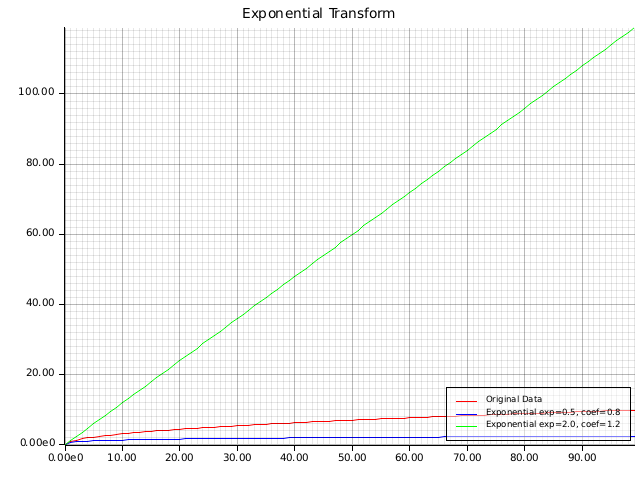
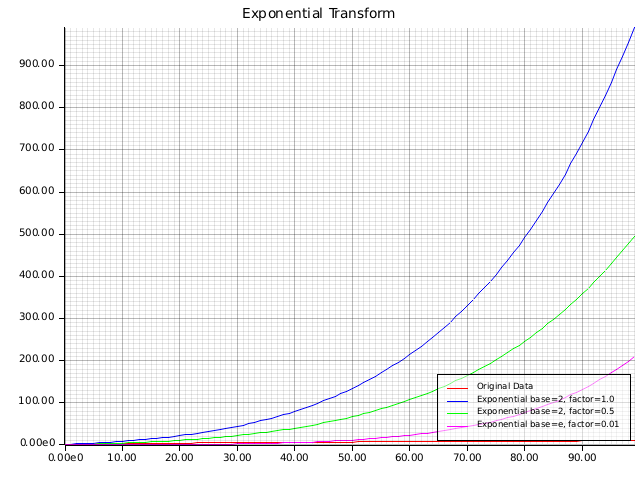
Fix documentation issues

Changed region(s): [[0.0312, 0.0625, 1.0, 0.9375]]

diff --git a/examples/scaling_transforms.rs b/examples/scaling_transforms.rs
@@ -5,7 +5,11 @@
 //!
 use polyfit::{
     error::Error,
-    function, plot,
+    function, plot, plot_filename,
+    plotting::{
+        plotters::{Plot, Root, Split},
+        PlotOptions, PlottingElement,
+    },
     transforms::{ApplyScale, ScaleTransform, Transform},
 };
 
@@ -16,22 +20,55 @@ fn main() -> Result<(), Error> {
     let data: Vec<(f64, f64)> = serde_json::from_str(data).unwrap();
 
     //
-    // Let's suppose these are sensor readings of temperature over time (celsius / seconds)
-    // And the sensor voltage follows a quadratic relation:
-    // V = 0.01T² + 0.5T
-    // We can use a polynomial fit to model this relationship
-    let voltage_data = data.apply_polynomial_scale(&function!(0.01 x^2 + 0.5 x));
+    // For example if we pretend this is temperature sensor data
+    // The sensor outputs temp in Fahrenheit but we want Celcius
+    // because we realized it's the superior unit of measurement
+    //
+    // We can use a polynomial to model this relationship (5/9)x - 32(5/9)
+    // or approximately 0.5556x - 17.7778
+    function!(celcius(f) = 0.5556 f - 17.7778);
+    let celcius_data = data.clone().apply_polynomial_scale(&celcius);
 
-    // Let's convert to megavolts (MV) to keep things numerically stable
-    // Because I've reused this data for a lot of examples and the voltage values are quite large
-    let mut voltage_data = voltage_data.apply_linear_scale(1e-6);
+    // Let's visualize the difference
+    let orig_data = PlottingElement::from_data(data.iter().copied(), Some("°F Data".to_string()));
+    let tx_data = PlottingElement::from_data(celcius_data.into_iter(), Some("°C Data".to_string()));
+    plot!([tx_data, orig_data]);
+
+    //
+    // Now instead let's say this is volts / seconds from some experiment
+    // Let's convert to kilovolts to keep things numerically stable
+    // Because I've reused this data for a lot of examples and the values are quite large
+    let mut voltage_data = data.clone().apply_linear_scale(1e-3);
 
     // Let's also convert time to minutes
     // The trait applies to y, so let's apply it manually
     let transformation = ScaleTransform::Linear(1.0 / 60.0);
     transformation.apply(voltage_data.iter_mut().map(|(x, _)| x));
 
-    plot!(voltage_data);
+    //
+    // Let's plot these side-by-side
+    // First we need to create a split root
+    let mut options = PlotOptions {
+        title: "Voltage over Time".to_string(),
+        size: (1280, 480),
+        ..Default::default()
+    };
+    let filename = plot_filename!(Some("voltage_time_comparison"));
+    let root = Root::new_split(&filename, options.size, Split::Horizontal(2));
+
+    //
+    // Plot the left side
+    options.x_label = Some("Time (min)".to_string());
+    options.y_label = Some("Voltage (kV)".to_string());
+    let plot = Plot::new(&root[0], options.clone(), &voltage_data).unwrap();
+    plot.finish().unwrap();
+
+    //
+    // And now the right side
+    options.x_label = Some("Time (s)".to_string());
+    options.y_label = Some("Voltage (V)".to_string());
+    let plot = Plot::new(&root[1], options, &data).unwrap();
+    plot.finish().unwrap();
 
     Ok(())
 }

diff --git a/src/transforms/scale.rs b/src/transforms/scale.rs
@@ -88,8 +88,7 @@ pub enum ScaleTransform<T: Value> {
 
     /// Applies an exponential scaling to each element of a dataset.
     ///
-    /// Each element is raised to the specified degree and then multiplied by the specified factor.
-    /// Useful for modeling exponential growth or decay.
+    /// Each element is transformed using exponentiation with the specified base
     ///
     /// ![Exponential example](https://raw.githubusercontent.com/caliangroup/polyfit/refs/heads/master/.github/assets/exponential_example.png)
     ///
@@ -98,12 +97,12 @@ pub enum ScaleTransform<T: Value> {
     /// **Technical Details**
     ///
     /// ```math
-    /// xₙ = factor * x^degree
+    /// xₙ = factor * base^x
     /// ```
     /// </div>
     ///
     /// # Parameters
-    /// - `degree`: The exponent to which each element is raised.
+    /// - `base`: The exponent to which each element is raised.
     /// - `factor`: The multiplier applied after exponentiation.
     Exponential(T, T),
 
@@ -143,9 +142,9 @@ impl<T: Value> Transform<T> for ScaleTransform<T> {
                     *value = *value * *value * *value * *coef;
                 }
             }
-            ScaleTransform::Exponential(degree, coef) => {
+            ScaleTransform::Exponential(base, coef) => {
                 for value in data {
-                    *value = value.powf(*degree) * *coef;
+                    *value = base.powf(*value) * *coef;
                 }
             }
             ScaleTransform::Logarithmic(base, coef) => {
@@ -274,8 +273,7 @@ pub trait ApplyScale<T: Value> {
 
     /// Applies an exponential scaling to each element of a dataset.
     ///
-    /// Each element is raised to the specified degree and then multiplied by the specified factor.
-    /// Useful for modeling exponential growth or decay.
+    /// Each element is transformed using exponentiation with the specified base
     ///
     /// ![Exponential example](https://raw.githubusercontent.com/caliangroup/polyfit/refs/heads/master/.github/assets/exponential_example.png)
     ///
@@ -284,12 +282,12 @@ pub trait ApplyScale<T: Value> {
     /// **Technical Details**
     ///
     /// ```math
-    /// xₙ = factor * x^degree
+    /// xₙ = factor * base^x
     /// ```
     /// </div>
     ///
     /// # Parameters
-    /// - `degree`: The exponent to which each element is raised.
+    /// - `base`: The base of the exponentiation.
     /// - `factor`: The multiplier applied after exponentiation.
     ///
     /// # Example
@@ -298,7 +296,7 @@ pub trait ApplyScale<T: Value> {
     /// let data = vec![(1.0, 2.0), (2.0, 3.0)].apply_exponential_scale(2.0, 3.0);
     /// ```
     #[must_use]
-    fn apply_exponential_scale(self, degree: T, factor: T) -> Self;
+    fn apply_exponential_scale(self, base: T, factor: T) -> Self;
 
     /// Applies a polynomial series as a transformation to each element of a dataset.
     ///

diff --git a/src/lib.rs b/src/lib.rs
@@ -139,7 +139,7 @@
 //! They also unlock a few analytical tools that are not available other bases:
 //! - [`CurveFit::smoothness`] - A measure of how "wiggly" the curve is; useful for regularization and model selection
 //! - [`CurveFit::coefficient_energies`] - A measure of how much each basis function contributes to the overall curve; useful for understanding the shape of the curve
-//! - [`Polynomial::spectral_energy_truncation`] - A way to de-noise the curve by removing high-frequency components the don't contribute enough; useful for smoothing noisy data
+//! - [`Polynomial::spectral_energy_filter`] - A way to de-noise the curve by removing high-frequency components the don't contribute enough; useful for smoothing noisy data
 //! - [`Polynomial::project_orthogonal`] - A way to project any function onto an orthogonal basis
 //!   - I like to use this to convert Fourier fits into Chebyshev fits for noisy periodic data (see `examples/whats_an_orthogonal.rs`)
 //!
@@ -176,7 +176,7 @@
 //! - If enabled, failed assertions in the testing library will automatically generate plots showing what went wrong
 //! - ![Example plot](https://raw.githubusercontent.com/caliangroup/polyfit/refs/heads/master/.github/assets/example_fail.png)
 //!
-//! See [`mod@plot`] for more details
+//! See [`mod@plotting`] for more details
 //!
 //! ### Transforms
 //! If the `transforms` feature is enabled, you can use the tools in the [`transforms`] module to manipulate your data.

diff --git a/src/transforms.rs b/src/transforms.rs
@@ -123,7 +123,6 @@ thread_local! {
 /// You can use a custom [`SeedSource`] to replay those seeds for debugging purposes, by using [`SeedSource::from_seeds`]
 #[derive(Debug)]
 pub struct SeedSource {
-    #[cfg(test)]
     replay: Vec<u64>,
 
     rng: rand::rngs::ThreadRng,
@@ -138,17 +137,17 @@ impl SeedSource {
     #[must_use]
     pub fn new() -> Self {
         Self {
-            #[cfg(test)]
             replay: Vec::new(),
-
             rng: rand::rng(),
         }
     }
 
     /// Create a new [`SeedSource`] that will replay the given seeds
     ///
-    /// Not for production use
-    #[cfg(test)]
+    /// Debug/testing use only. Not intended for production use.
+    ///
+    /// This function will override any random seed generation and return the given seeds in order
+    /// until they are exhausted, at which point it will revert to random generation.
     #[must_use]
     pub fn from_seeds(seeds: Vec<u64>) -> Self {
         Self {
@@ -187,11 +186,8 @@ impl SeedSource {
     /// # Panics
     /// Panics if the thread-local vault cannot be locked
     pub fn seed(&mut self) -> u64 {
-        #[cfg(test)]
-        {
-            if !self.replay.is_empty() {
-                return self.replay.remove(0);
-            }
+        if !self.replay.is_empty() {
+            return self.replay.remove(0);
         }
 
         let seed: u64 = rand::Rng::random(&mut self.rng);

diff --git a/src/test.rs b/src/test.rs
@@ -134,7 +134,7 @@ mod assertions;
 /// ```
 #[macro_export]
 macro_rules! function {
-    ($( $(+)? $c0:literal $(x $( ^ $d0:literal )?)? )+) => { {
+    ($( $(+)? $c0:literal $($x:ident $( ^ $d0:literal )?)? )+) => { {
         const LEN: usize = {
             let mut degree = 0; $(
                 let d2 = 1 $(+ 1 $(* $d0 as usize)?)?;
@@ -153,15 +153,15 @@ macro_rules! function {
         $crate::MonomialPolynomial::borrowed(&COEFS)
     }};
 
-    ($name:ident (x) = $($rest:tt)+ ) => {
+    ($name:ident ($x:ident) = $($rest:tt)+ ) => {
         let $name: $crate::MonomialPolynomial = $crate::function!($($rest)+);
     };
 
-    (const $name:ident (x) = $($rest:tt)+ ) => {
+    (const $name:ident ($x:ident) = $($rest:tt)+ ) => {
         const $name: $crate::MonomialPolynomial<'static> = $crate::function!($($rest)+);
     };
 
-    (static $name:ident (x) = $($rest:tt)+ ) => {
+    (static $name:ident ($x:ident) = $($rest:tt)+ ) => {
         static $name: $crate::MonomialPolynomial<'static> = $crate::function!($($rest)+);
     };
 }

diff --git a/examples/transforms_demo.rs b/examples/transforms_demo.rs
@@ -261,13 +261,15 @@ fn main() -> Result<(), String> {
     //
     // Exponential
     let data = SourceSampleType::GrowingSlow(false).generate();
-    let half_coeff = ScaleTransform::Exponential(0.5, 0.8);
-    let double_coeff = ScaleTransform::Exponential(2.0, 1.2);
+    let base2_1 = ScaleTransform::Exponential(2.0, 1.0);
+    let basee = ScaleTransform::Exponential(2.0, 0.5);
+    let tiny_coeff = ScaleTransform::Exponential(std::f64::consts::E, 0.01);
     generate_plot(
         data.clone(),
         vec![
-            ("Exponential exp=0.5, coef=0.8", data.transformed(&half_coeff)),
-            ("Exponential exp=2.0, coef=1.2", data.transformed(&double_coeff)),
+            ("Exponential base=2, factor=1.0", data.transformed(&base2_1)),
+            ("Exponential base=2, factor=0.5", data.transformed(&basee)),
+            ("Exponential base=e, factor=0.01", data.transformed(&tiny_coeff)),
         ],
         false,
         "Exponential Transform",

diff --git a/src/fit.rs b/src/fit.rs
@@ -9,7 +9,7 @@ use crate::{
     display::PolynomialDisplay,
     error::{Error, Result},
     score::ModelScoreProvider,
-    statistics::{self, Confidence, ConfidenceBand, DegreeBound, Tolerance},
+    statistics::{self, Confidence, ConfidenceBand, CvStrategy, DegreeBound, Tolerance},
     value::{CoordExt, SteppedValues, Value},
     MonomialPolynomial, Polynomial,
 };
@@ -862,7 +862,7 @@ where
     )]
     pub fn new_kfold_cross_validated(
         data: impl Into<Cow<'data, [(T, T)]>>,
-        strategy: statistics::CvStrategy,
+        strategy: CvStrategy,
         max_degree: impl Into<DegreeBound>,
         method: &impl ModelScoreProvider,
     ) -> Result<Self> {

diff --git a/examples/generate_logo.rs b/examples/generate_logo.rs
@@ -19,12 +19,12 @@ fn main() -> Result<(), Error> {
         y_axis_labels: Some(0),
     }, prefix = "logo");
 
-    plot!([ddx, dx], {
+    plot!([ddx, dx, fancy_curve], {
         title: "".to_string(),
-        size: (16, 16),
-        margins: Some(1),
+        size: (32, 32),
         x_range: Some(0.0..100.0),
 
+        margins: Some(1),
         hide_legend: true,
         x_axis_labels: Some(0),
         y_axis_labels: Some(0),

diff --git a/src/plotting/backend/plotters.rs b/src/plotting/backend/plotters.rs
@@ -22,6 +22,9 @@ use crate::{
 const FONT_BYTES: &[u8] = include_bytes!("DejaVuSans.ttf");
 const MAX_LBL_WIDTH: usize = 120;
 
+/// Plot type for the plotters backend
+pub type Plot<'root, T> = crate::plotting::Plot<Backend<'root>, T>;
+
 /// Register the built-in font with plotters
 ///
 /// # Panics
